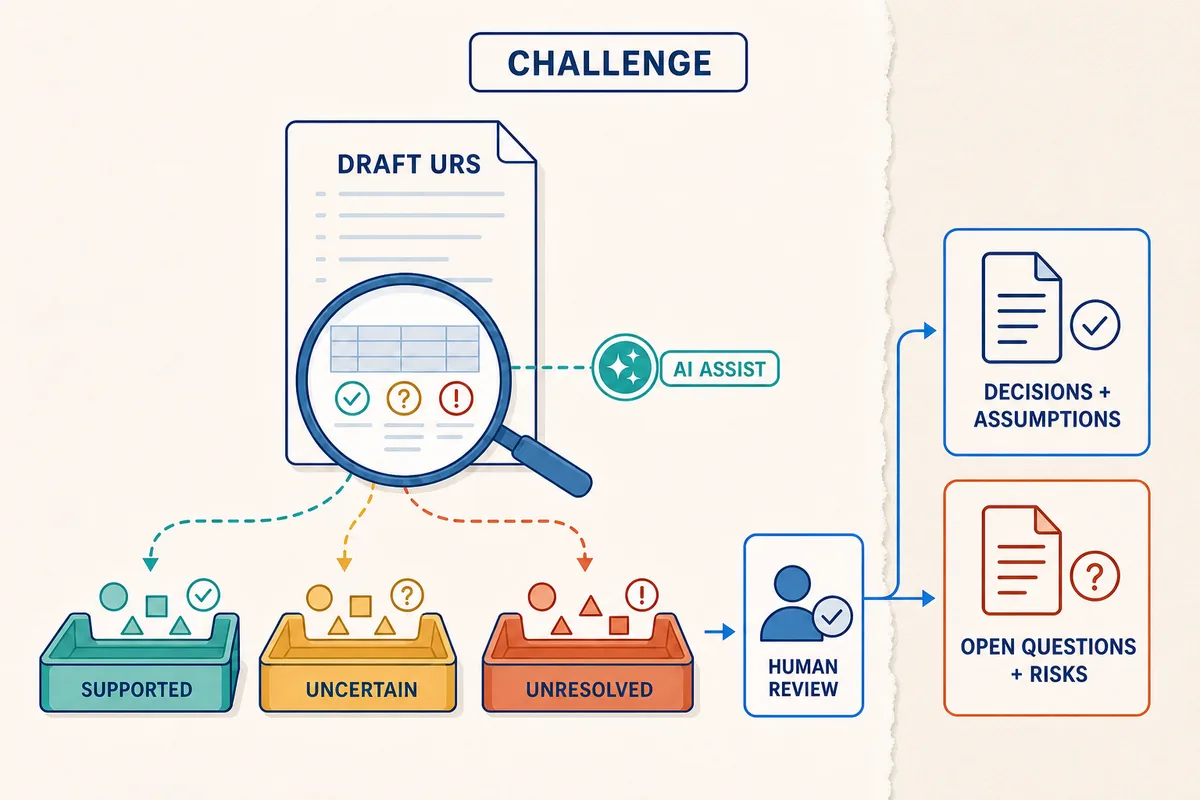
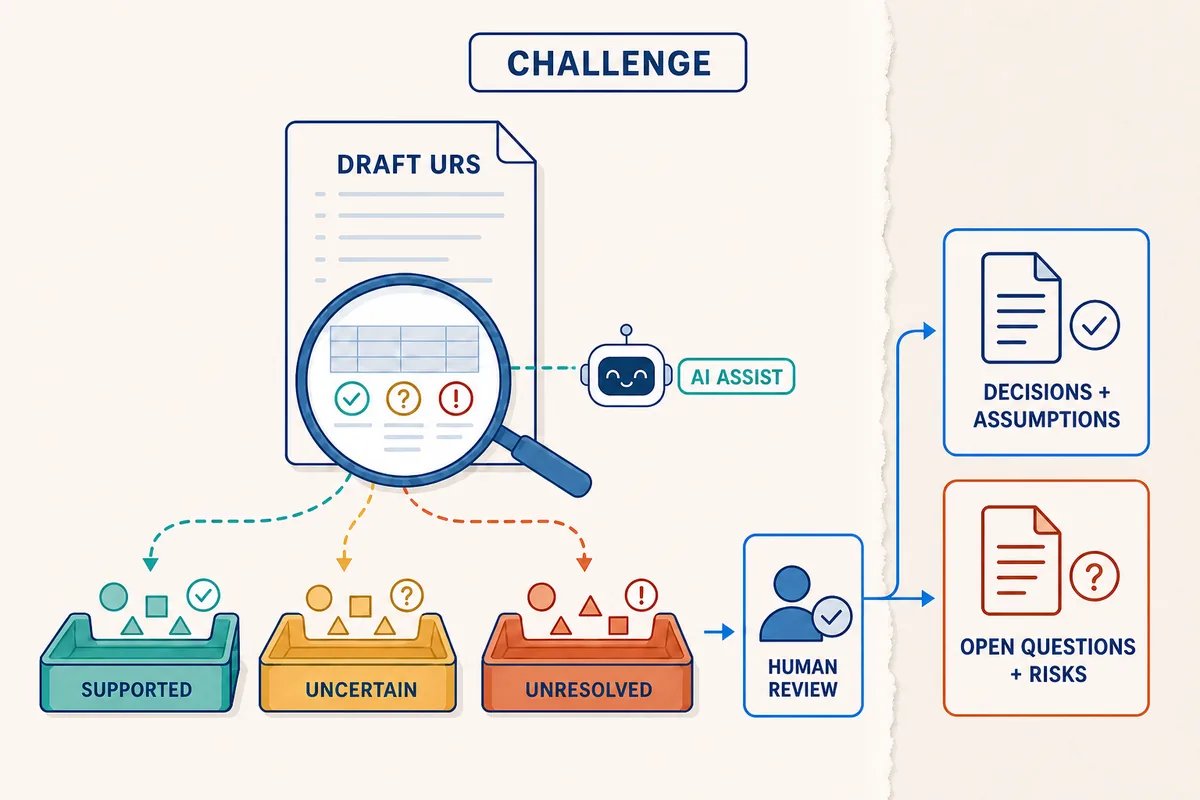
Align planning illustrations with lifecycle robot marker

diff --git a/DECISION-LOG.md b/DECISION-LOG.md
@@ -46,6 +46,14 @@
 - Prompt record: a precise-object edit added only the wavy tear boundary and a subtle separated panel treatment; the single lens, trays, Human Review gate, centred outcomes, and arrows remain unchanged.
 - Approval: the content owner requested and approved the matching tearaway treatment on 18 August 2026.
 
+## Playbook 02 Robot-Head Consistency Revision
+
+- Revision: replace the abstract sparkle AI markers in all five Playbook 02 illustrations with the small robot-head marker established in the Playbook 01 lifecycle illustration.
+- Final assets: `illustrations/02-planning-four-activities.webp`, `illustrations/02-explore-medication-capture.webp`, `illustrations/02-search-evidence-map.webp`, `illustrations/02-challenge-assumptions-risks.webp`, and `illustrations/02-finalise-urs-handoff.webp`.
+- Prompt record: use the Playbook 01 robot-head asset as the visual reference; preserve the `AI ASSIST` labels, dotted proposal/checking connectors, human review cues, and existing compositions, with subtle spacing adjustments where required.
+- Approval: the content owner requested and approved the robot-head consistency revision on 18 August 2026.
+- Interpretation note: the robot head is a compact visual marker for AI assistance, not an autonomous actor or decision authority.
+
 ## Approved Baseline Asset
 
 - Concept: text, image, audio, and code inputs pass through an abstract model network and emerge as corresponding outputs.
